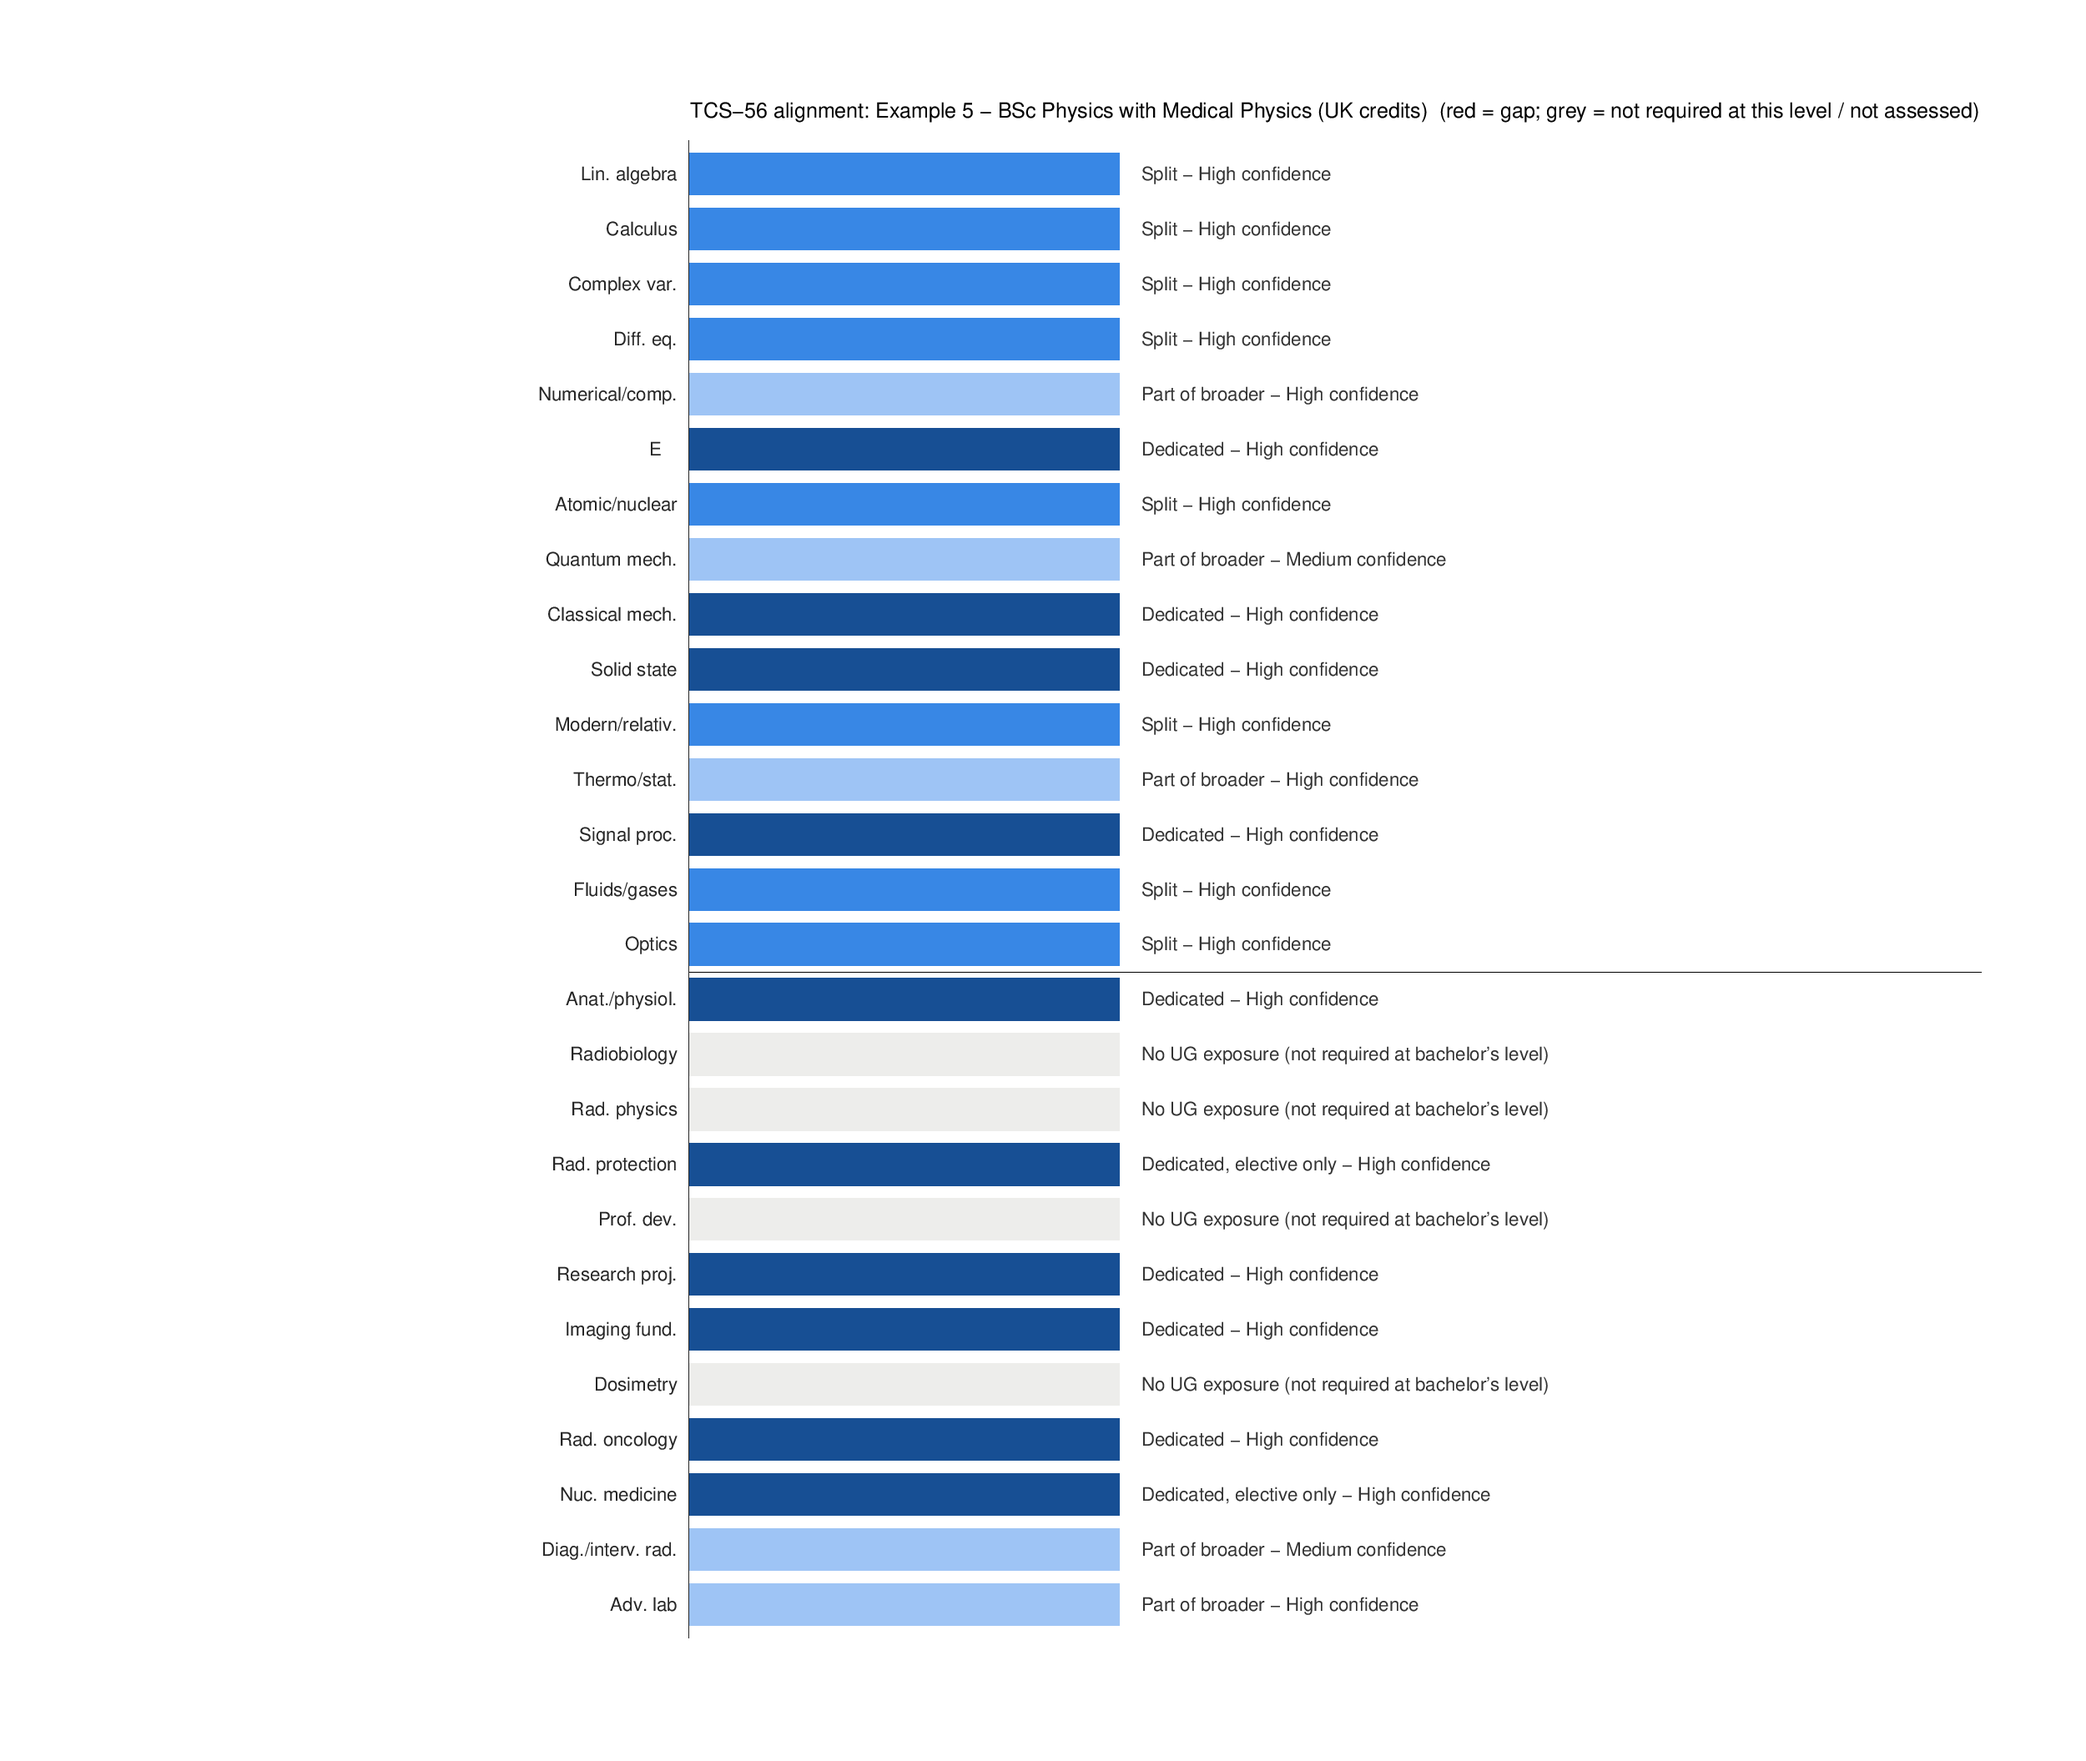
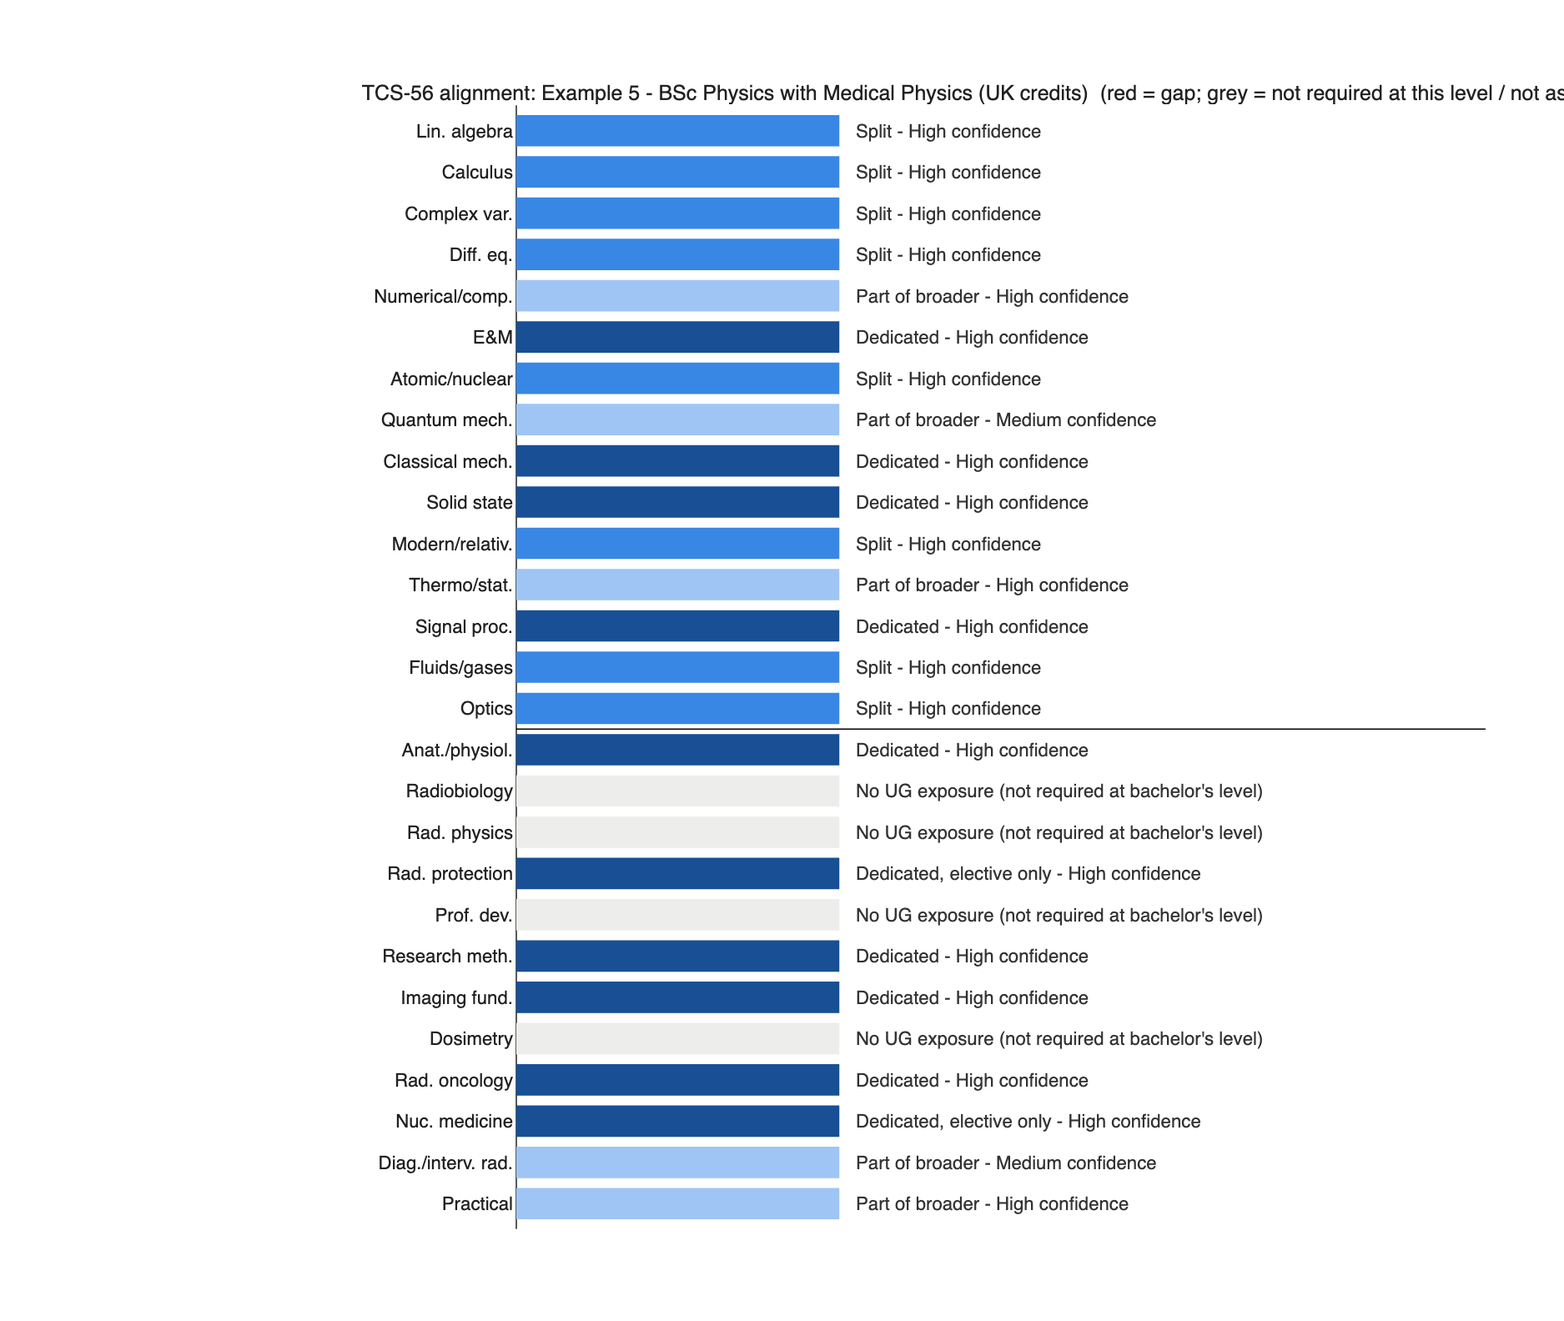
Regenerate example 5 output in MATLAB (TCS-56 item names)
Claude-Session: https://claude.ai/code/session_017GkgYiC1FGVQHbA2DuZDiu

Changed region(s): [[0.2475, 0.0619, 1.0, 0.928]]

diff --git a/examples/output/ex5/assessment_report.md b/examples/output/ex5/assessment_report.md
@@ -1,6 +1,6 @@
 # TCS-56 alignment: Example 5 - BSc Physics with Medical Physics (UK credits)
 
-Level: Bachelor. Input: University (course list). Generated 2026-11-16.
+Level: Bachelor. Input: University (course list). Generated 2026-11-20.
 
 ## Summary
 
@@ -38,13 +38,13 @@ Level: Bachelor. Input: University (course list). Generated 2026-11-16.
 | Radiation Physics | Not covered; App. A: Not covered |  |  | No undergraduate exposure found. TCS-56 places this item in the postgraduate curriculum, so this is not a bachelor's-level gap. |
 | Radiation Protection | Dedicated (elective only); App. A: Not covered | High | Radiation Protection (High) | Reached only through electives: a graduate may not have taken it. |
 | Professional and Scientific Development | Not covered; App. A: Not covered |  |  | No undergraduate exposure found. TCS-56 places this item in the postgraduate curriculum, so this is not a bachelor's-level gap. |
-| Research Project | Dedicated; App. A: Dedicated | High | Research Project (High) |  |
+| Research Methodology | Dedicated; App. A: Dedicated | High | Research Project (High) |  |
 | Medical Imaging Fundamentals | Dedicated; App. A: Dedicated | High | Introduction to Medical Imaging (High) |  |
 | Radiation Dosimetry | Not covered; App. A: Not covered |  |  | No undergraduate exposure found. TCS-56 places this item in the postgraduate curriculum, so this is not a bachelor's-level gap. |
 | Physics of Radiation Oncology | Dedicated; App. A: Dedicated | High | Treatment with Ionising Radiation (High) |  |
 | Physics of Nuclear Medicine | Dedicated (elective only); App. A: Not covered | High | Nuclear Medicine and PET (High) | Reached only through electives: a graduate may not have taken it. |
 | Physics of Diagnostic and Interventional Radiology | Part of broader; App. A: Split | Medium | Introduction to Medical Imaging (Medium) | Covered inside a broader course; depth is not guaranteed. |
-| Advanced topics laboratory | Part of broader; App. A: Not covered | High | Practical Physics and Computing (High) | Covered inside a broader course; depth is not guaranteed. |
+| Practical Sessions | Part of broader; App. A: Not covered | High | Practical Physics and Computing (High) | Covered inside a broader course; depth is not guaranteed. |
 
 ## Gaps
 
